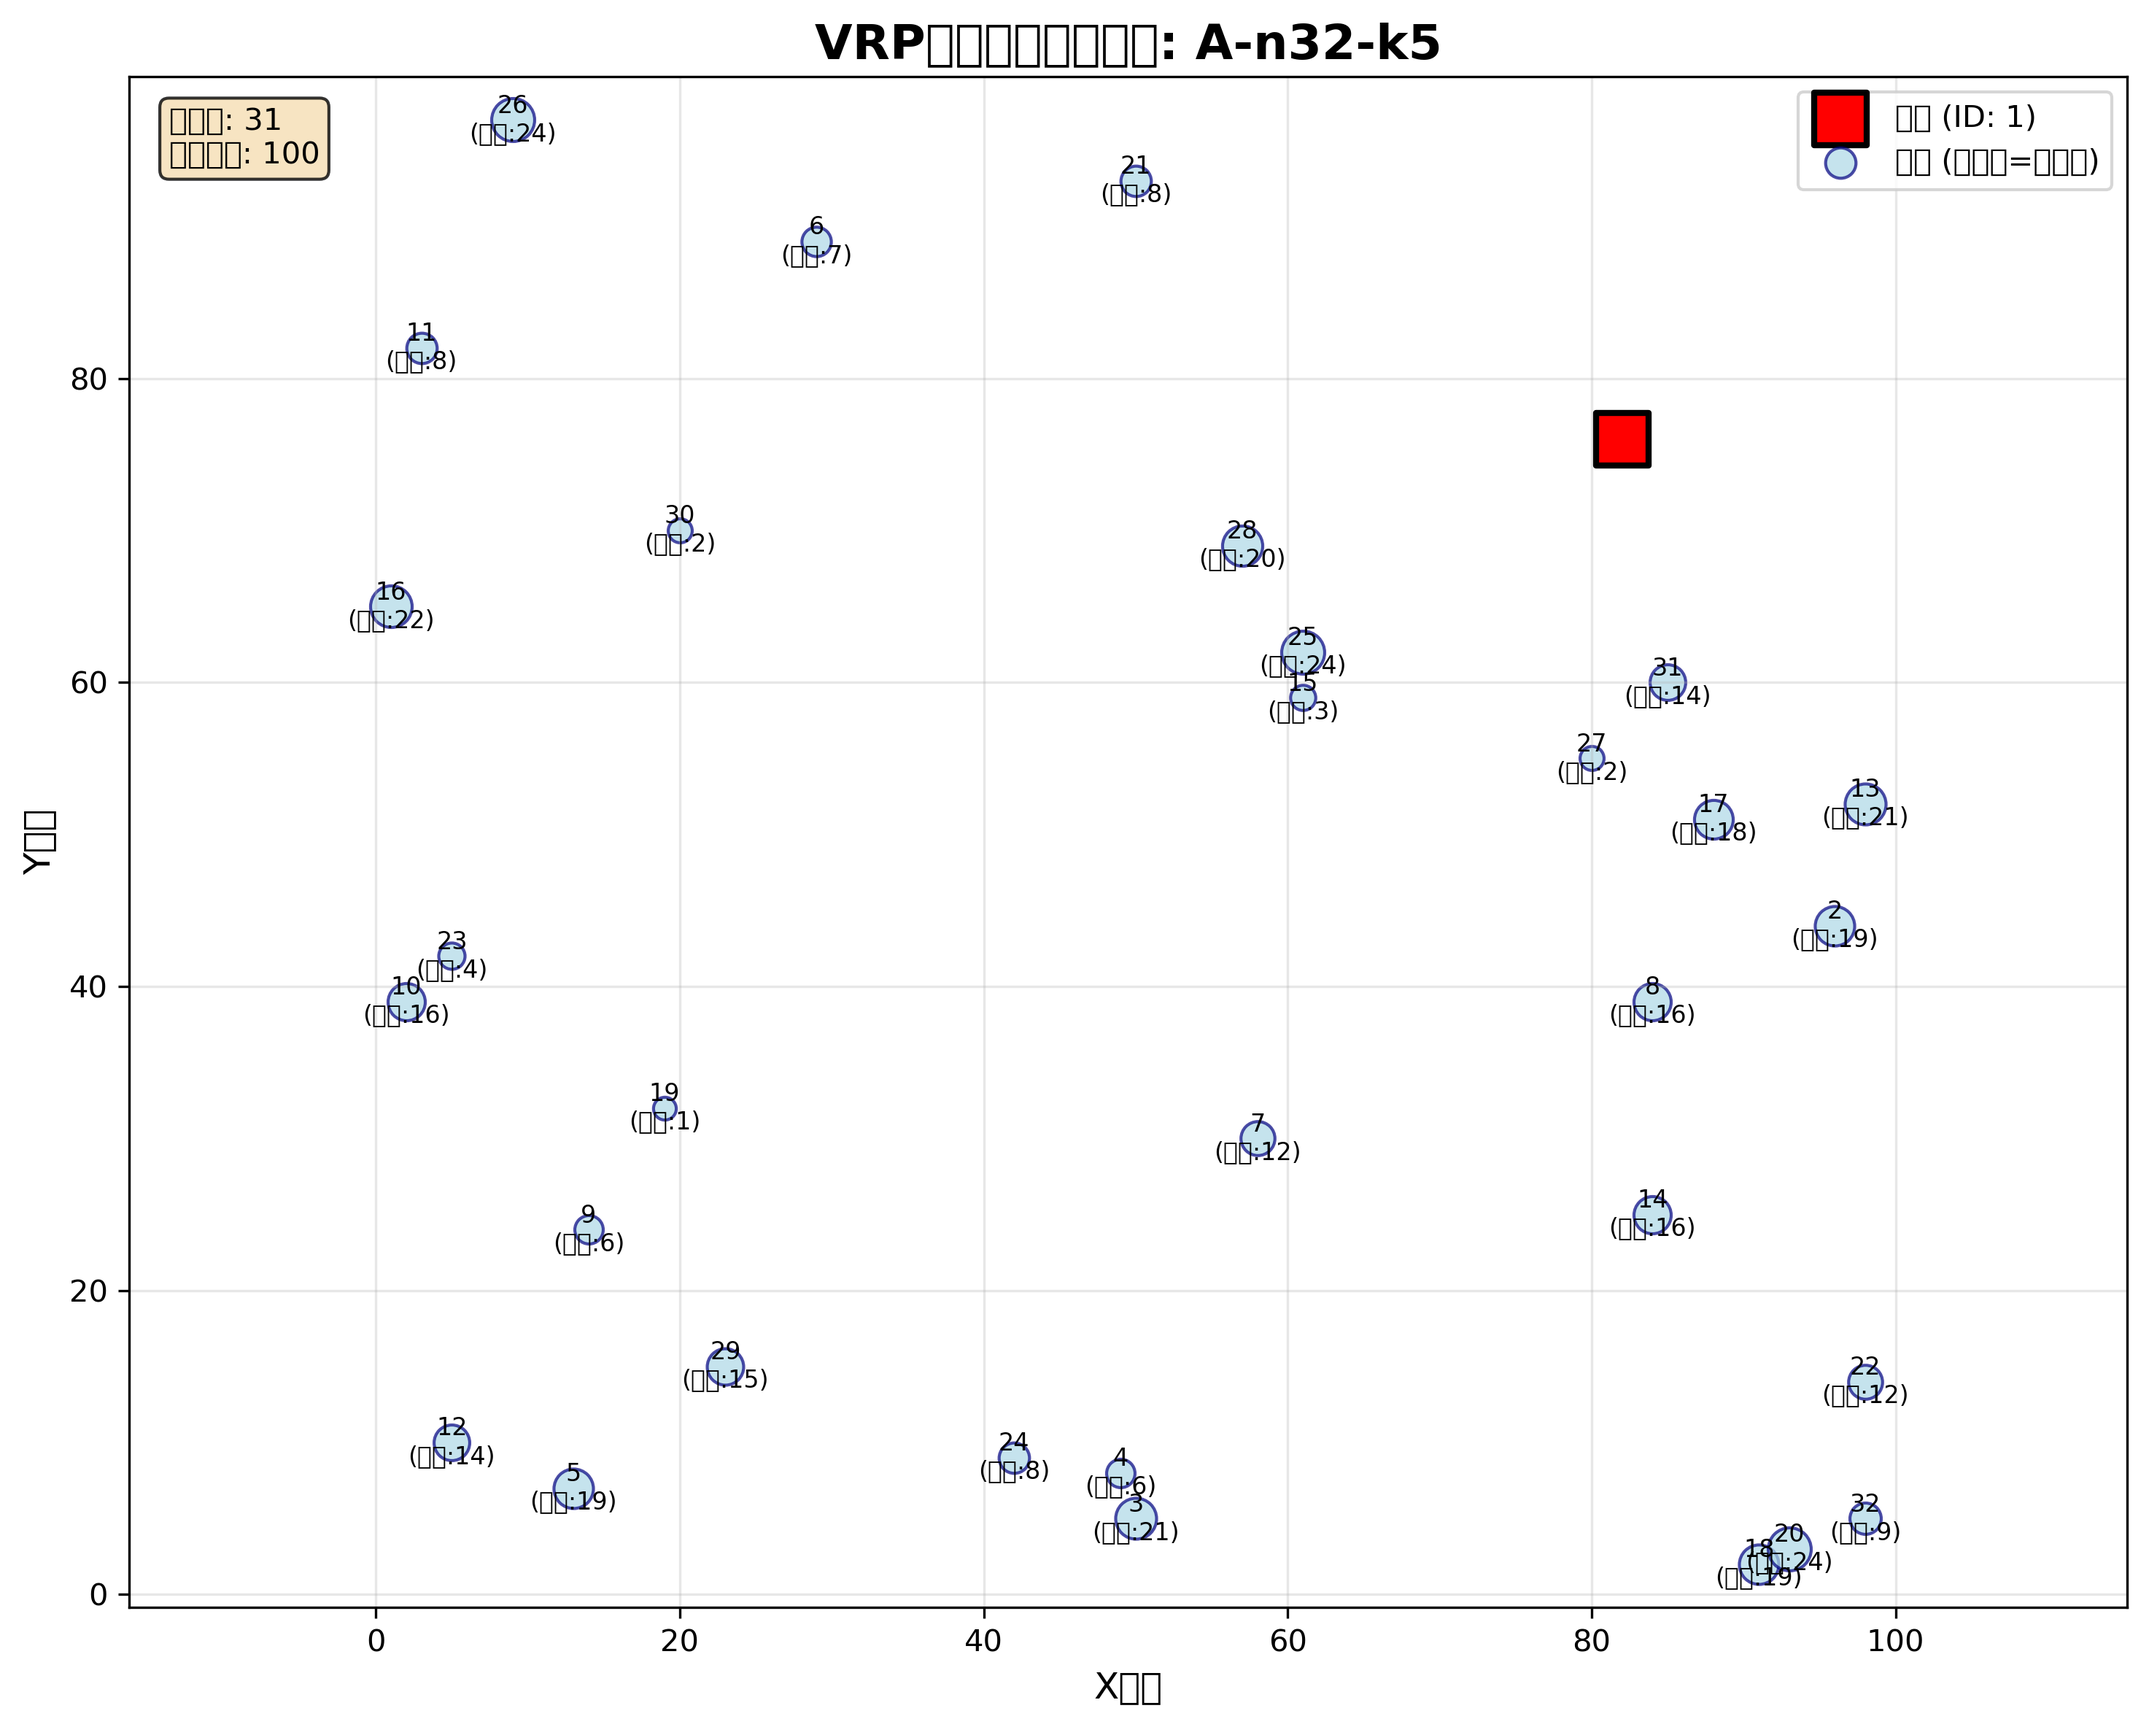
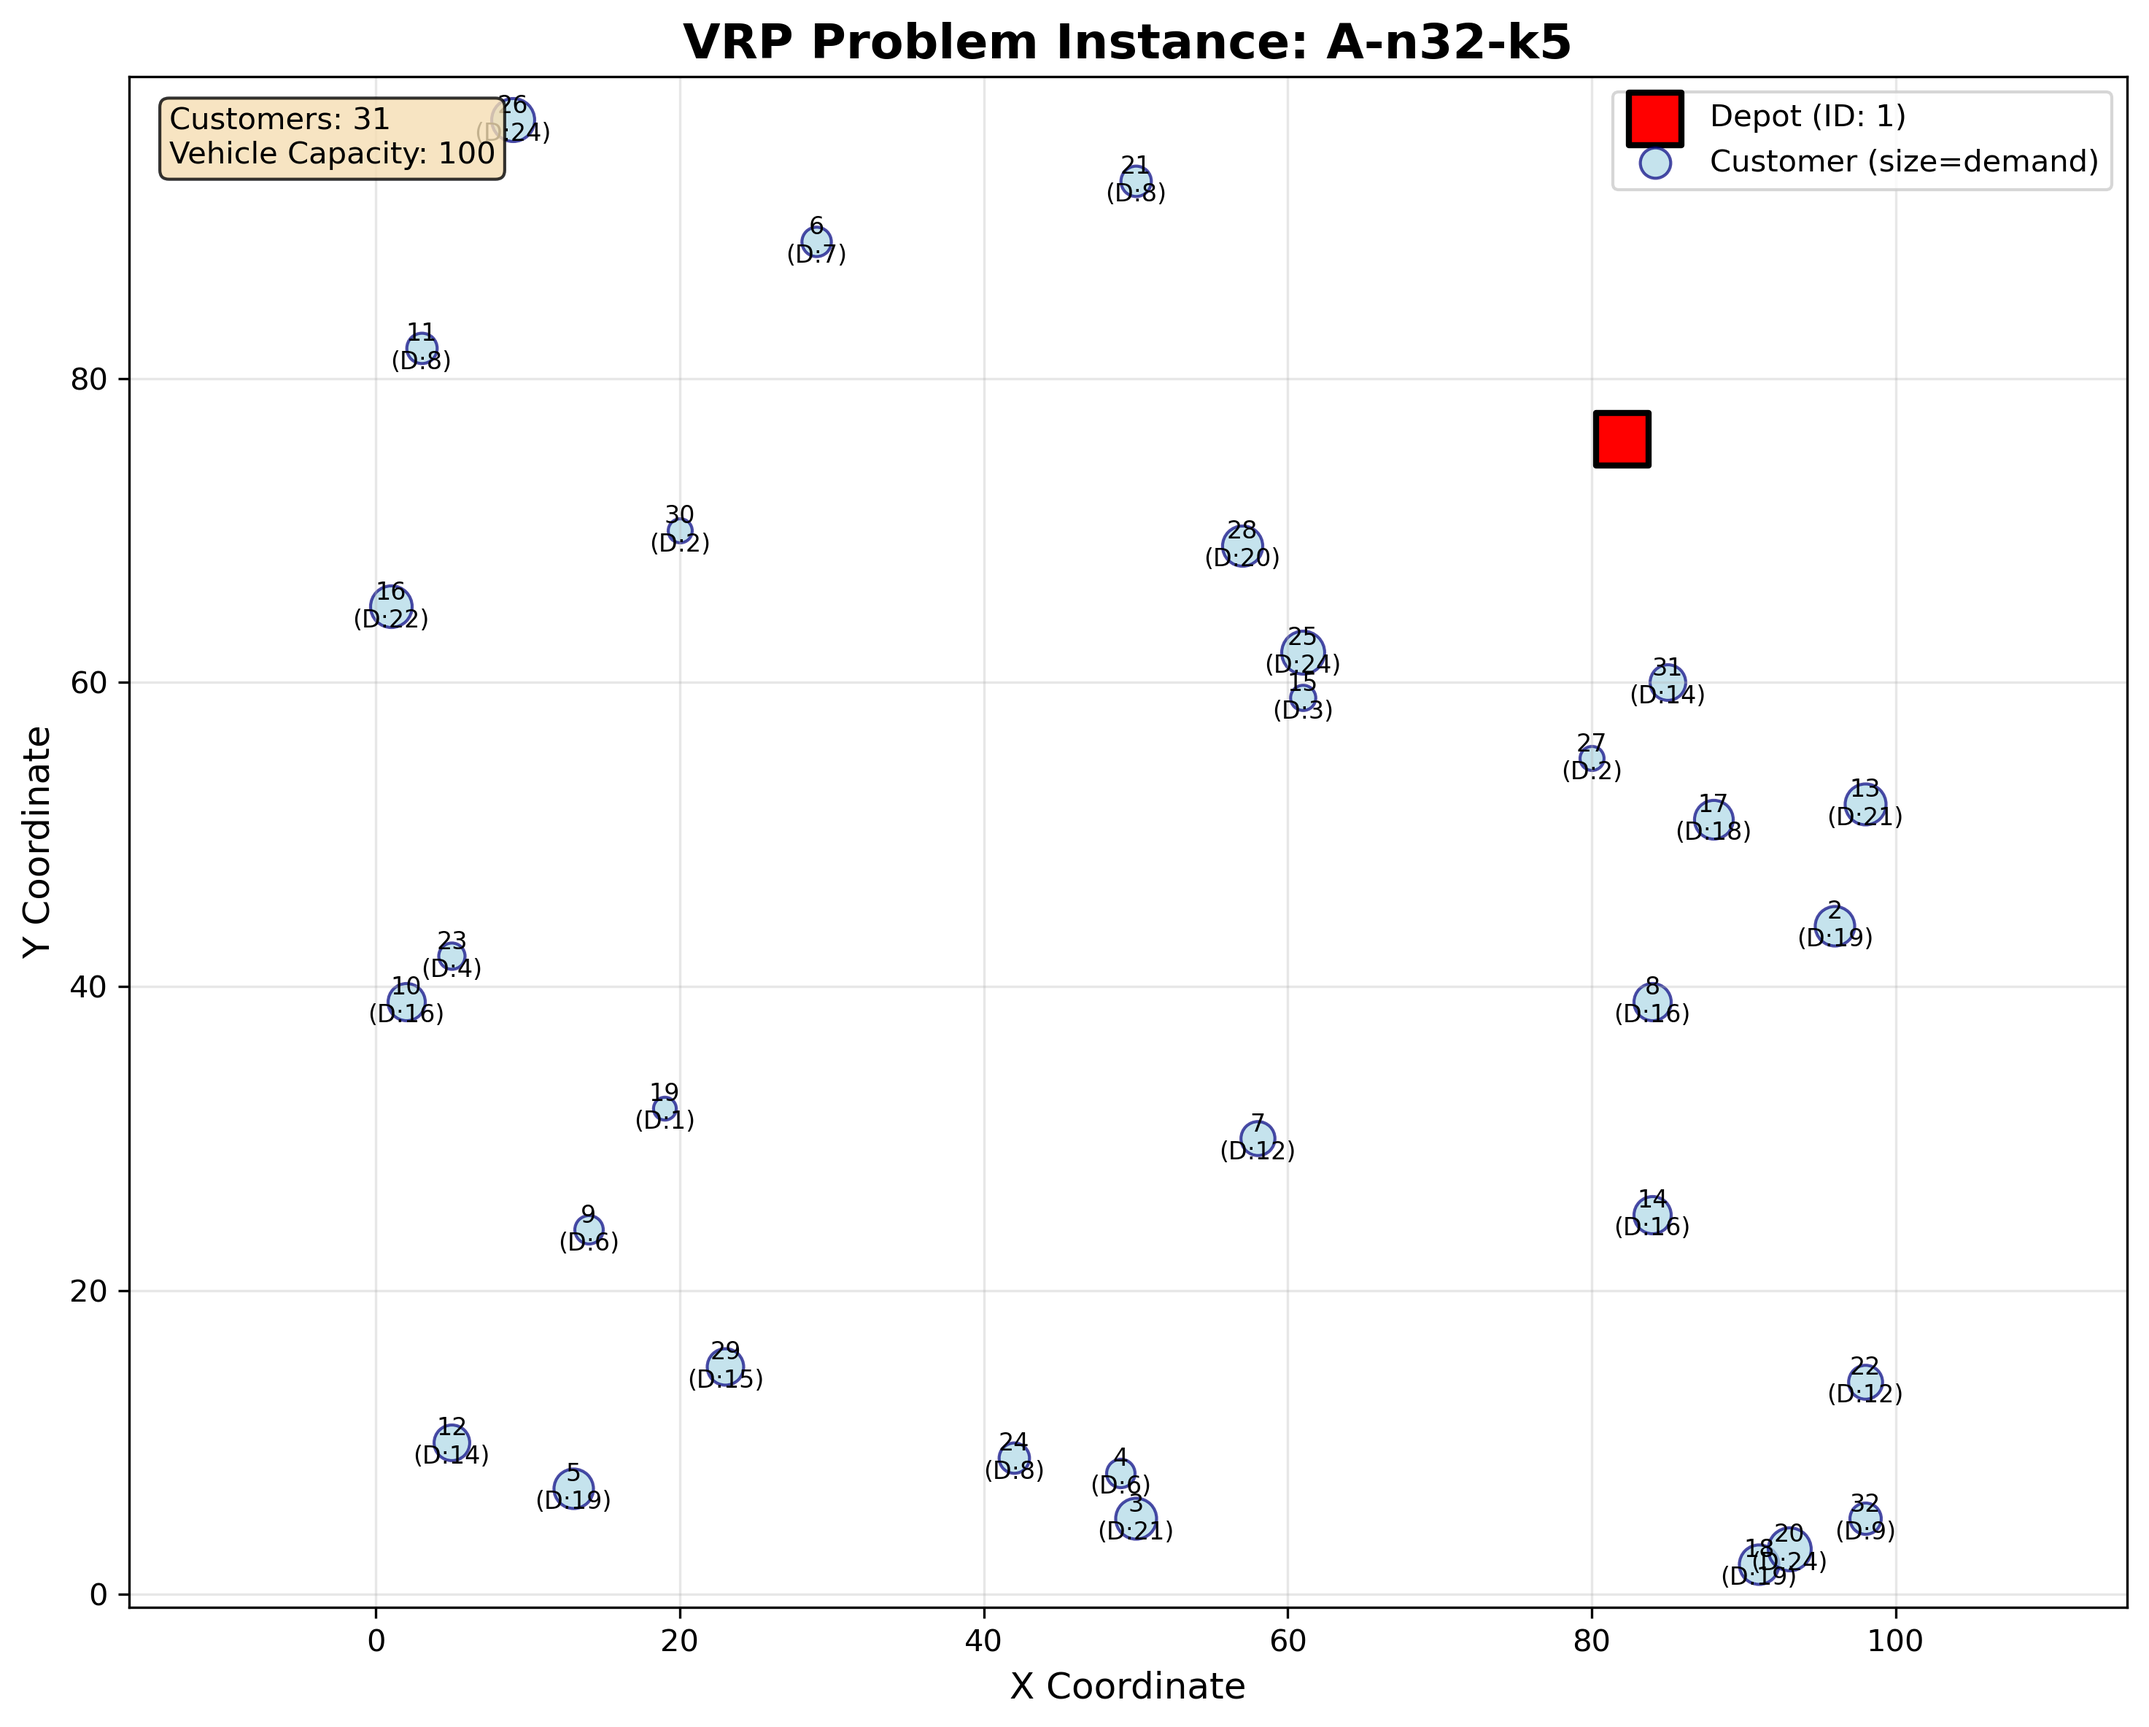
Fix Japanese font issues in visualization
- Replace all Japanese labels with English equivalents
- Set DejaVu Sans as default font family
- Update visualization titles and labels to English
- Fix console messages to use English
- Eliminate matplotlib font warnings completely

Changes:
- "デポ" → "Depot"
- "車両" → "Vehicle"
- "顧客" → "Customer"
- "座標" → "Coordinate"
- "需要" → "Demand" (abbreviated as "D:")
- Vehicle labels changed to "V1", "V2", etc.

Result: Clean visualization output without font warnings

🤖 Generated with [Claude Code](https://claude.ai/code)

diff --git a/src/visualizer.py b/src/visualizer.py
@@ -9,6 +9,9 @@ from typing import List, Tuple
 import numpy as np
 from .vrp_parser import VRPInstance, Customer
 
+# 日本語フォント問題の回避：英語ラベルを使用
+plt.rcParams['font.family'] = 'DejaVu Sans'
+
 class VRPVisualizer:
     """VRP解の可視化を行うクラス"""
     
@@ -29,7 +32,7 @@ class VRPVisualizer:
             '#BB8FCE', '#85C1E9', '#F8C471', '#82E0AA'
         ]
     
-    def plot_solution(self, routes: List[List[int]], title: str = "VRP解の可視化", 
+    def plot_solution(self, routes: List[List[int]], title: str = "VRP Solution Visualization", 
                      save_path: str = None, show_plot: bool = True) -> None:
         """VRP解を可視化してプロット
         
@@ -45,11 +48,11 @@ class VRPVisualizer:
         # デポを特別な記号で表示
         plt.scatter(self.depot.x, self.depot.y, 
                    c='red', s=200, marker='s', 
-                   label=f'デポ (ID: {self.depot.id})', 
+                   label=f'Depot (ID: {self.depot.id})', 
                    edgecolor='black', linewidth=2, zorder=5)
         
         # デポにテキストラベルを追加
-        plt.annotate(f'デポ\n{self.depot.id}', 
+        plt.annotate(f'Depot\n{self.depot.id}', 
                     (self.depot.x, self.depot.y),
                     xytext=(5, 5), textcoords='offset points',
                     fontsize=10, fontweight='bold',
@@ -82,15 +85,15 @@ class VRPVisualizer:
             
             plt.scatter(route_x, route_y, 
                        c=color, s=100, alpha=0.8, 
-                       label=f'車両 {i+1} ({len(route)}顧客)',
+                       label=f'Vehicle {i+1} ({len(route)} customers)',
                        edgecolor='black', linewidth=1, zorder=3)
             
             # ルートの線を描画
             self._draw_route_lines(route, color, i+1)
         
         # グラフの設定
-        plt.xlabel('X座標', fontsize=12)
-        plt.ylabel('Y座標', fontsize=12)
+        plt.xlabel('X Coordinate', fontsize=12)
+        plt.ylabel('Y Coordinate', fontsize=12)
         plt.legend(bbox_to_anchor=(1.05, 1), loc='upper left')
         plt.grid(True, alpha=0.3)
         plt.axis('equal')  # 縦横比を等しくする
@@ -101,7 +104,7 @@ class VRPVisualizer:
         # 保存
         if save_path:
             plt.savefig(save_path, dpi=300, bbox_inches='tight')
-            print(f"可視化結果を保存しました: {save_path}")
+            print(f"Visualization saved: {save_path}")
         
         # 表示
         if show_plot:
@@ -144,7 +147,7 @@ class VRPVisualizer:
         if len(route) > 0:
             mid_idx = len(route) // 2
             mid_customer = next(c for c in self.instance.customers if c.id == route[mid_idx])
-            plt.annotate(f'車両{vehicle_num}', 
+            plt.annotate(f'V{vehicle_num}', 
                         (mid_customer.x, mid_customer.y),
                         xytext=(10, 10), textcoords='offset points',
                         fontsize=9, fontweight='bold', color=color,
@@ -153,7 +156,7 @@ class VRPVisualizer:
     
     def plot_solution_comparison(self, routes1: List[List[int]], routes2: List[List[int]],
                                cost1: float, cost2: float, 
-                               label1: str = "解1", label2: str = "解2",
+                               label1: str = "Solution 1", label2: str = "Solution 2",
                                save_path: str = None) -> None:
         """2つの解を比較表示
         
@@ -171,23 +174,23 @@ class VRPVisualizer:
         # 第1の解
         plt.sca(ax1)
         self.plot_solution(routes1, 
-                          title=f"{label1} (コスト: {cost1:.2f})", 
+                          title=f"{label1} (Cost: {cost1:.2f})", 
                           show_plot=False)
         
         # 第2の解
         plt.sca(ax2) 
         self.plot_solution(routes2, 
-                          title=f"{label2} (コスト: {cost2:.2f})", 
+                          title=f"{label2} (Cost: {cost2:.2f})", 
                           show_plot=False)
         
         # 全体のタイトル
-        fig.suptitle(f'VRP解の比較: {self.instance.name}', fontsize=16, fontweight='bold')
+        fig.suptitle(f'VRP Solution Comparison: {self.instance.name}', fontsize=16, fontweight='bold')
         
         plt.tight_layout()
         
         if save_path:
             plt.savefig(save_path, dpi=300, bbox_inches='tight')
-            print(f"比較結果を保存しました: {save_path}")
+            print(f"Comparison result saved: {save_path}")
         
         plt.show()
     
@@ -199,12 +202,12 @@ class VRPVisualizer:
             show_plot: プロットを表示するかどうか
         """
         plt.figure(figsize=(10, 8))
-        plt.title(f'VRP問題インスタンス: {self.instance.name}', fontsize=16, fontweight='bold')
+        plt.title(f'VRP Problem Instance: {self.instance.name}', fontsize=16, fontweight='bold')
         
         # デポを表示
         plt.scatter(self.depot.x, self.depot.y, 
                    c='red', s=300, marker='s', 
-                   label=f'デポ (ID: {self.depot.id})', 
+                   label=f'Depot (ID: {self.depot.id})', 
                    edgecolor='black', linewidth=2)
         
         # 顧客を表示（需要量に応じてサイズを変更）
@@ -218,22 +221,22 @@ class VRPVisualizer:
                        edgecolor='navy', linewidth=1)
             
             # 顧客IDと需要量を表示
-            plt.annotate(f'{customer.id}\n(需要:{customer.demand})', 
+            plt.annotate(f'{customer.id}\n(D:{customer.demand})', 
                         (customer.x, customer.y),
                         xytext=(0, 0), textcoords='offset points',
                         fontsize=8, ha='center', va='center')
         
         plt.scatter([], [], c='lightblue', s=100, alpha=0.7, 
-                   label='顧客 (サイズ=需要量)', edgecolor='navy')
+                   label='Customer (size=demand)', edgecolor='navy')
         
-        plt.xlabel('X座標', fontsize=12)
-        plt.ylabel('Y座標', fontsize=12)
+        plt.xlabel('X Coordinate', fontsize=12)
+        plt.ylabel('Y Coordinate', fontsize=12)
         plt.legend()
         plt.grid(True, alpha=0.3)
         plt.axis('equal')
         
         # 問題情報を表示
-        info_text = f"顧客数: {len(self.customers)}\n車両容量: {self.instance.capacity}"
+        info_text = f"Customers: {len(self.customers)}\nVehicle Capacity: {self.instance.capacity}"
         plt.text(0.02, 0.98, info_text, transform=plt.gca().transAxes, 
                 verticalalignment='top', bbox=dict(boxstyle='round', facecolor='wheat', alpha=0.8))
         
@@ -241,7 +244,7 @@ class VRPVisualizer:
         
         if save_path:
             plt.savefig(save_path, dpi=300, bbox_inches='tight')
-            print(f"問題インスタンスを保存しました: {save_path}")
+            print(f"Problem instance saved: {save_path}")
         
         if show_plot:
             plt.show()

diff --git a/main.py b/main.py
@@ -84,15 +84,15 @@ def main():
             visualizer = VRPVisualizer(instance)
             
             # 問題インスタンス（顧客分布）を表示
-            print("問題インスタンス（顧客分布）を表示...")
+            print("Generating problem instance visualization...")
             visualizer.plot_problem_instance(
                 save_path="results/problem_instance.png",
                 show_plot=False  # ターミナル環境では表示しない
             )
             
             # VRP解を可視化
-            print("VRP解を可視化...")
-            solution_title = f"VRP解: {instance.name} (貪欲法)"
+            print("Generating VRP solution visualization...")
+            solution_title = f"VRP Solution: {instance.name} (Greedy Algorithm)"
             visualizer.plot_solution(
                 routes=routes,
                 title=solution_title,
@@ -100,13 +100,13 @@ def main():
                 show_plot=False  # ターミナル環境では表示しない
             )
             
-            print("可視化画像を results/ ディレクトリに保存しました")
-            print("- problem_instance.png: 問題インスタンス（顧客分布）")
-            print("- solution_visualization.png: VRP解の可視化")
+            print("Visualization images saved to results/ directory:")
+            print("- problem_instance.png: Problem instance (customer distribution)")
+            print("- solution_visualization.png: VRP solution visualization")
             
         except Exception as viz_error:
-            print(f"可視化エラー: {viz_error}")
-            print("matplotlibが正しくインストールされていない可能性があります")
+            print(f"Visualization error: {viz_error}")
+            print("matplotlib may not be properly installed")
         
     except Exception as e:
         # エラーが発生した場合の処理
